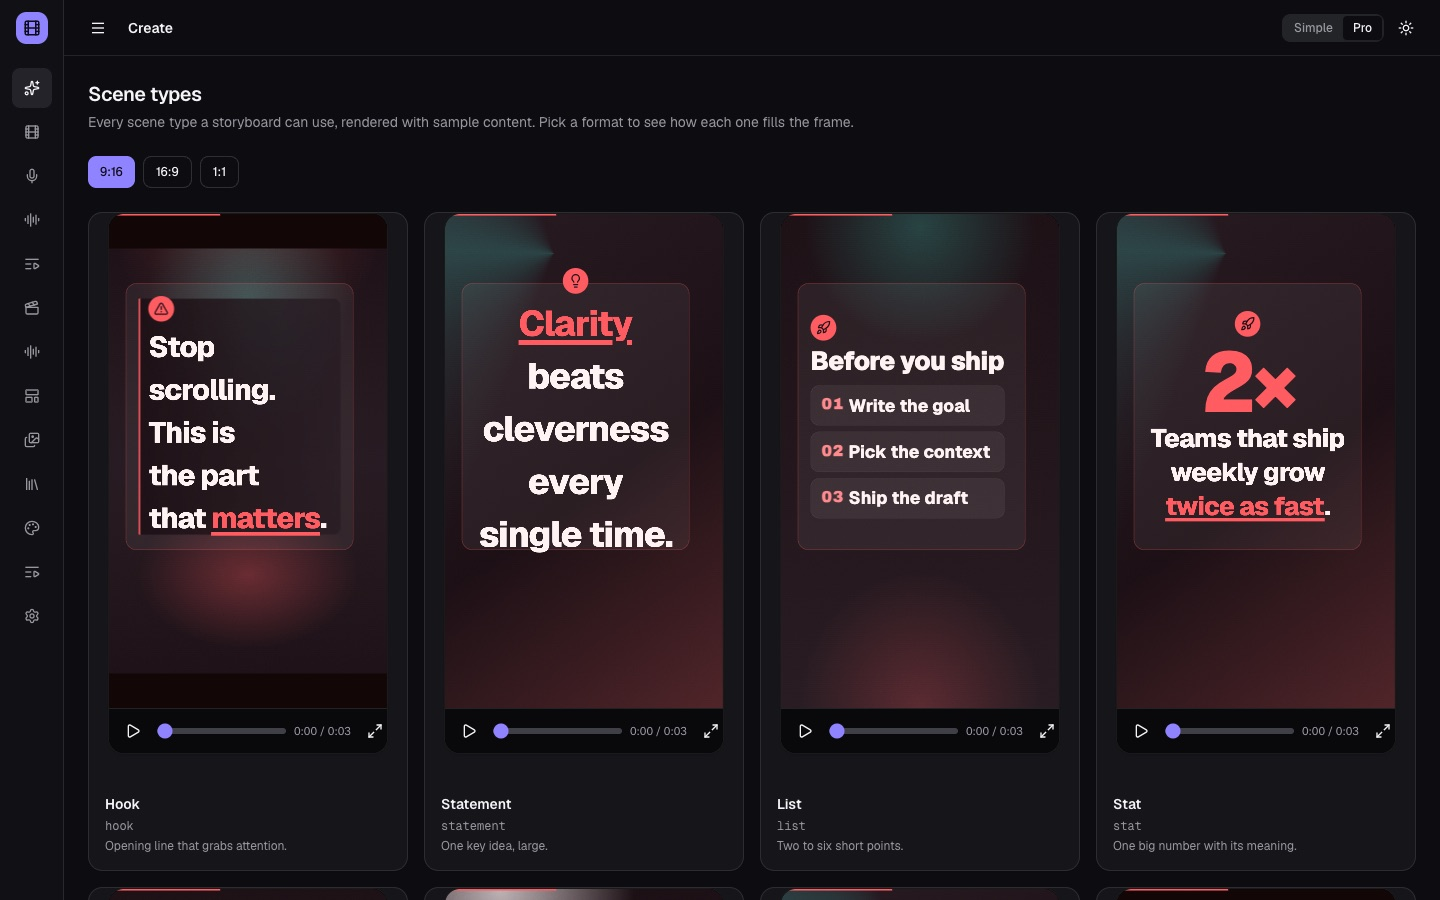
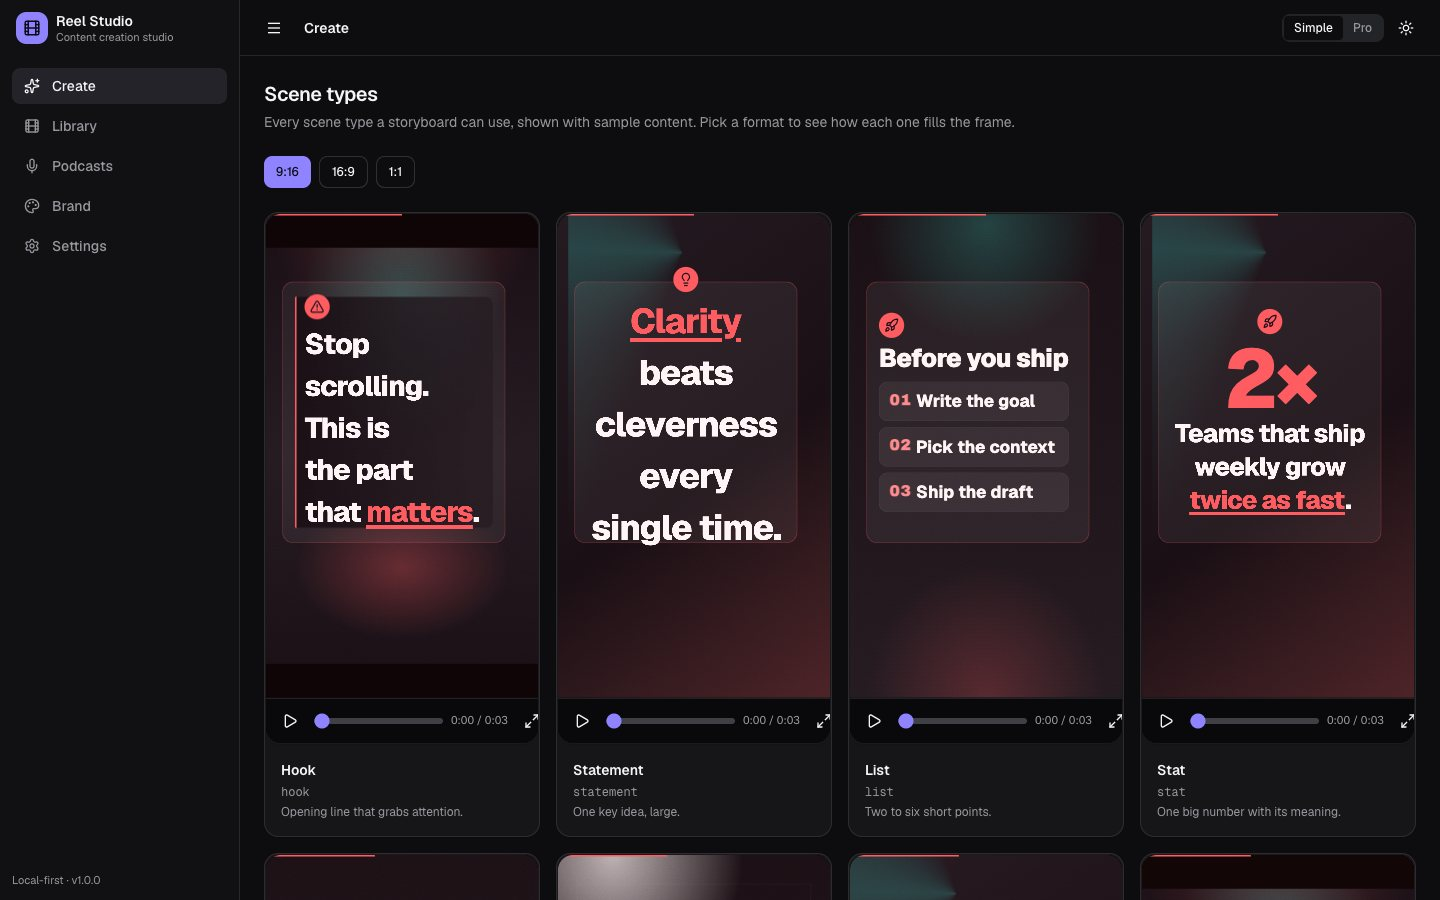
fix: regenerate the checked-in README screenshots (#135) (#267)
Closes #135

diff --git a/scripts/demo-capture-ui.ts b/scripts/demo-capture-ui.ts
@@ -4,12 +4,12 @@
  * Starts a throwaway studio (its own data folder, a fake local writer, no
  * network), then with a real Chrome:
  *   - takes screenshots of the home page, the generation view and the result
- *     page, on desktop and on a phone;
+ *     page, on desktop and on a phone, plus the four README screenshots;
  *   - records one prompt-to-video session (webm) with the times that matter;
  *   - runs the real MCP server over stdio, makes a video with it, and renders
  *     the exchange as a terminal recording (PNG frames).
  *
- *   npx tsx scripts/demo-capture-ui.ts --out dist/demo/.work/ui
+ *   node --import tsx scripts/demo-capture-ui.ts --out dist/demo/.work/ui [--screens-only]
  *
  * Nothing here is faked: the MCP lines are what the server returned.
  */
@@ -20,7 +20,8 @@ import path from "node:path";
 import { readEngineInfo } from "../src/server/local-engine";
 import { Client } from "@modelcontextprotocol/sdk/client/index.js";
 import { StdioClientTransport } from "@modelcontextprotocol/sdk/client/stdio.js";
-import { chromium, type Page } from "@playwright/test";
+import { chromium, type Browser, type Page } from "@playwright/test";
+import { z } from "zod";
 
 const args = process.argv.slice(2);
 const flag = (name: string) => {
@@ -31,6 +32,7 @@ const out = path.resolve(flag("--out") ?? "dist/demo/.work/ui");
 const PORT = flag("--port") ?? "3190";
 const WRITER_PORT = flag("--writer-port") ?? "3198";
 const base = `http://127.0.0.1:${PORT}`;
+const screensOnly = args.includes("--screens-only");
 mkdirSync(out, { recursive: true });
 
 async function waitForServer(): Promise<void> {
@@ -101,6 +103,12 @@ async function simpleMode(page: Page): Promise<void> {
 
 /** Puts the player on a frame with something in it (the first frame is empty). */
 async function showFrame(page: Page, seconds: number): Promise<void> {
+  await page.waitForFunction(() => {
+    const video = document.querySelector<HTMLVideoElement>(
+      'video[aria-label="Finished video"]',
+    );
+    return video && video.readyState >= HTMLMediaElement.HAVE_METADATA;
+  });
   await page.getByLabel("Finished video").evaluate(
     (v, t) =>
       new Promise<void>((resolve) => {
@@ -124,6 +132,121 @@ const HIDE_DEV_BADGE = () => {
     document.head.appendChild(style),
   );
 };
+
+type PreviewWindow = Window & { __reelSeek?: (seconds: number) => void };
+
+/** Seek the live editor and gallery previews to a settled frame before capturing. */
+async function showPreviewFrames(page: Page, count: number): Promise<void> {
+  const selector = 'iframe[title="HyperFrames preview"]';
+  await page.waitForFunction(
+    ({ selector, count }) => {
+      const frames = Array.from(
+        document.querySelectorAll<HTMLIFrameElement>(selector),
+      );
+      return (
+        frames.length >= count &&
+        frames
+          .slice(0, count)
+          .every(
+            (frame) =>
+              typeof (frame.contentWindow as PreviewWindow | null)
+                ?.__reelSeek === "function",
+          )
+      );
+    },
+    { selector, count },
+  );
+  await page.locator(selector).evaluateAll(async (frames, count) => {
+    for (const element of frames.slice(0, count)) {
+      const frame = element as HTMLIFrameElement;
+      await frame.contentDocument?.fonts.ready;
+      (frame.contentWindow as PreviewWindow | null)?.__reelSeek?.(1.5);
+    }
+  }, count);
+}
+
+async function captureReadmeScreens(
+  browser: Browser,
+  resultUrl?: string,
+): Promise<void> {
+  const directory = path.join(out, "screens");
+  mkdirSync(directory, { recursive: true });
+  const desktop = await browser.newContext({
+    viewport: { width: 1440, height: 900 },
+    colorScheme: "dark",
+  });
+  await desktop.addInitScript(HIDE_DEV_BADGE);
+  try {
+    const page = await desktop.newPage();
+    const capture = (name: string) =>
+      page.screenshot({
+        path: path.join(directory, `${name}.jpg`),
+        type: "jpeg",
+        quality: 84,
+      });
+    const headers = { origin: base, "content-type": "application/json" };
+    const mode = await fetch(`${base}/api/ui-mode`, {
+      method: "POST",
+      headers,
+      body: JSON.stringify({ mode: "simple", onboarded: true }),
+    });
+    if (!mode.ok)
+      throw new Error(`Could not set the demo Studio mode: ${mode.status}`);
+    await page.goto(`${base}/`);
+    await page
+      .getByRole("heading", { name: "What do you want to make?" })
+      .waitFor();
+    await page
+      .locator("aside")
+      .getByRole("link", { name: "Settings", exact: true })
+      .waitFor();
+    await page.locator("#one-prompt-input").fill("Why is the sky blue?");
+    await capture("home");
+
+    if (!resultUrl) {
+      const response = await fetch(`${base}/api/storyboards?quality=draft`, {
+        method: "POST",
+        headers,
+        body: readFileSync("e2e/fixtures/written.storyboard.json", "utf8"),
+      });
+      if (!response.ok)
+        throw new Error(
+          `Could not queue the README video: ${response.status} ${await response.text()}`,
+        );
+      const { jobId } = z
+        .object({ jobId: z.string().min(1) })
+        .parse(await response.json());
+      resultUrl = `${base}/results/${encodeURIComponent(jobId)}`;
+    }
+    await page.goto(resultUrl);
+    await page.getByText("Ready to download").waitFor({ timeout: 8 * 60_000 });
+    await showFrame(page, 3);
+    await capture("result");
+
+    const editor = await page
+      .getByRole("link", { name: "Open full editor" })
+      .getAttribute("href");
+    if (!editor) throw new Error("The README video has no editor link.");
+    const editorUrl = new URL(editor, base);
+    editorUrl.search = "";
+    await page.goto(editorUrl.href);
+    await showPreviewFrames(page, 1);
+    await page
+      .locator('iframe[title="HyperFrames preview"]')
+      .first()
+      .evaluate((frame) => frame.scrollIntoView({ block: "center" }));
+    await capture("editor");
+
+    await page.goto(`${base}/scenes`);
+    await page
+      .getByRole("heading", { name: "Scene types", exact: true })
+      .waitFor();
+    await showPreviewFrames(page, 4);
+    await capture("scene-types");
+  } finally {
+    await desktop.close();
+  }
+}
 
 interface McpLine {
   kind: "command" | "output";
@@ -385,6 +508,15 @@ async function main(): Promise<void> {
       channel: process.env.E2E_BROWSER ?? "chrome",
     });
 
+    if (screensOnly) {
+      try {
+        await captureReadmeScreens(browser);
+      } finally {
+        await browser.close();
+      }
+      return;
+    }
+
     // 1. Desktop session, recorded.
     const recordings = path.join(out, "recording");
     const desktop = await browser.newContext({
@@ -454,6 +586,7 @@ async function main(): Promise<void> {
     await showFrame(mobile, 3);
     await mobile.screenshot({ path: path.join(out, "ui-result-mobile.png") });
     await phone.close();
+    await captureReadmeScreens(browser, resultUrl);
 
     // 3. The MCP flow, from the real server, drawn as a terminal.
     const lines = await mcpSession();

diff --git a/scripts/demo-assets.ts b/scripts/demo-assets.ts
@@ -3,7 +3,7 @@
  * (roadmap L2) into `dist/demo/`, with a manifest and an `index.html`.
  *
  *   npm run demo:assets [-- --skip-ui] [-- --skip-sheets] [-- --skip-media]
- *                       [-- --only media,sheets,ui] [-- --rerender]
+ *                       [-- --only media,sheets,ui,screens] [-- --rerender]
  *                       [-- --upload <release-tag>]
  *
  * Inputs:
@@ -13,7 +13,7 @@
  *   - the theme and scene-type contact sheets (`scripts/theme-sheet.mjs`,
  *     `scripts/scene-sheet.mjs`), unless `--skip-sheets`.
  *   - scripted browser sessions and an MCP session (`scripts/demo-capture-ui.ts`),
- *     unless `--skip-ui`.
+ *     unless `--skip-ui`. The four README JPEGs also go to `docs/assets/screens/`.
  *
  * Every GIF has an MP4 twin and is held under its size cap (hero 8 MB, gallery
  * 3 MB); the run fails if a file cannot be brought under its cap.
@@ -515,13 +515,52 @@ function sheets(): void {
   }
 }
 
-function ui(): void {
+const readmeScreens = [
+  { name: "home", source: "Studio Create page (/)" },
+  { name: "result", source: "e2e/fixtures/written.storyboard.json" },
+  { name: "editor", source: "e2e/fixtures/written.storyboard.json" },
+  { name: "scene-types", source: "registered scene samples (/scenes)" },
+] as const;
+
+function copyReadmeScreens(directory: string): void {
+  const docs = path.resolve("docs/assets/screens");
+  const output = path.join(OUT, "screens");
+  for (const { name } of readmeScreens) {
+    const file = path.join(directory, "screens", `${name}.jpg`);
+    const bytes = size(file);
+    if (bytes === 0 || bytes > GALLERY_CAP)
+      throw new Error(
+        `README screenshot ${name}.jpg is ${bytes} bytes and must fit the ${fmtMb(GALLERY_CAP)} cap`,
+      );
+  }
+  mkdirSync(docs, { recursive: true });
+  mkdirSync(output, { recursive: true });
+  for (const { name, source } of readmeScreens) {
+    const file = path.join(directory, "screens", `${name}.jpg`);
+    const target = path.join(output, `${name}.jpg`);
+    copyFileSync(file, path.join(docs, `${name}.jpg`));
+    copyFileSync(file, target);
+    record(target, "readme-screenshot", source, GALLERY_CAP);
+  }
+}
+
+function ui(screensOnly = false): void {
   const dir = path.join(WORK, "ui");
   rmSync(dir, { recursive: true, force: true });
-  execFileSync("npx", ["tsx", "scripts/demo-capture-ui.ts", "--out", dir], {
-    stdio: "inherit",
-    shell: process.platform === "win32",
-  });
+  execFileSync(
+    process.execPath,
+    [
+      "--import",
+      "tsx",
+      "scripts/demo-capture-ui.ts",
+      "--out",
+      dir,
+      ...(screensOnly ? ["--screens-only"] : []),
+    ],
+    { stdio: "inherit" },
+  );
+  copyReadmeScreens(dir);
+  if (screensOnly) return;
   for (const name of [
     "ui-home",
     "ui-generation",
@@ -690,7 +729,7 @@ ${media}
 }
 
 async function main(): Promise<void> {
-  // `--only media,sheets,ui` redoes some stages and keeps the rest of dist/demo.
+  // `--only` redoes selected stages and keeps the rest of dist/demo.
   const only = value("--only")?.split(",");
   const stage = (name: string) =>
     only ? only.includes(name) : !has(`--skip-${name}`);
@@ -735,9 +774,13 @@ async function main(): Promise<void> {
     sheets();
   }
   if (stage("ui")) {
-    redo(/^(screenshot|ui-|terminal|podcast)/);
+    redo(/^(screenshot|readme-screenshot|ui-|terminal|podcast)/);
     console.log("Screenshots, recording, MCP terminal");
     ui();
+  } else if (only?.includes("screens")) {
+    redo(/^readme-screenshot$/);
+    console.log("README screenshots");
+    ui(true);
   }
   writeFileSync(
     path.join(OUT, "manifest.json"),

diff --git a/README.md b/README.md
@@ -100,7 +100,7 @@ Eight core tools by default; the rest are opt-in. See [MCP](docs/MCP.md). No age
 
 <sub>The wait while the video is made is shown twelve times faster. Mobile works too: [home](https://github.com/mohitkale/reel-studio/releases/download/demo-assets/ui-home-mobile.png), [result](https://github.com/mohitkale/reel-studio/releases/download/demo-assets/ui-result-mobile.png).</sub>
 
-The studio as it is today (screenshots of the running app, with a video made through the MCP server):
+The running studio with a video made from the bundled demo storyboard.
 
 |                                                                                                            |                                                                                                         |
 | ---------------------------------------------------------------------------------------------------------- | ------------------------------------------------------------------------------------------------------- |
@@ -108,6 +108,7 @@ The studio as it is today (screenshots of the running app, with a video made thr
 | ![Editor: every scene, its text and its voice script, with a live preview](docs/assets/screens/editor.jpg) | ![Scene types: each one drawn with sample content in every format](docs/assets/screens/scene-types.jpg) |
 
 Automation is the default and manual editing is always one switch away (Simple and Pro).
+Regenerate these four screenshots with `npm run demo:assets -- --only screens`.
 
 ## Themes and scene types
 

diff --git a/docs/CONTRIBUTING_SCENES.md b/docs/CONTRIBUTING_SCENES.md
@@ -163,8 +163,11 @@ FFmpeg, and about 20 minutes.
 - Screenshots (home, generation view, result, phone), a prompt-to-video screen recording and
   a terminal recording of the real MCP server making a video come from
   `scripts/demo-capture-ui.ts`, which starts a throwaway studio with a fake local writer.
+- The four README screenshots go to `docs/assets/screens/` and `dist/demo/screens/`.
+  The manifest records each JPEG and its source. Run `npm run demo:assets -- --only screens`
+  to refresh the README screenshots and their preview entries using one draft video.
 
-Flags: `--skip-ui`, `--skip-sheets`, `--rerender` (render the storyboards again).
+Flags: `--skip-ui` (including the README screenshots), `--skip-sheets`, `--rerender` (render the storyboards again).
 The run fails if a GIF cannot be brought under its cap. The README links the files as assets of
 the `demo-assets` release; `npm run demo:assets -- --upload demo-assets` attaches a fresh set
 (a public action: only a maintainer runs it).
